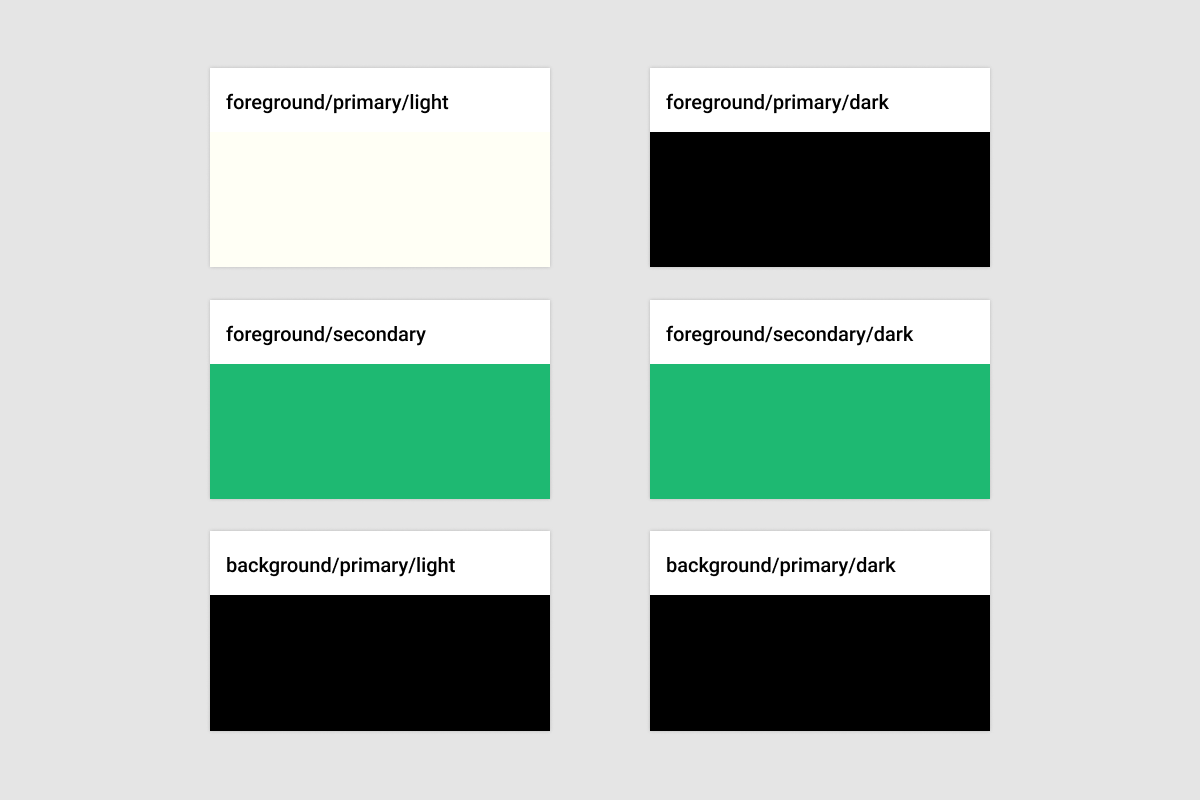
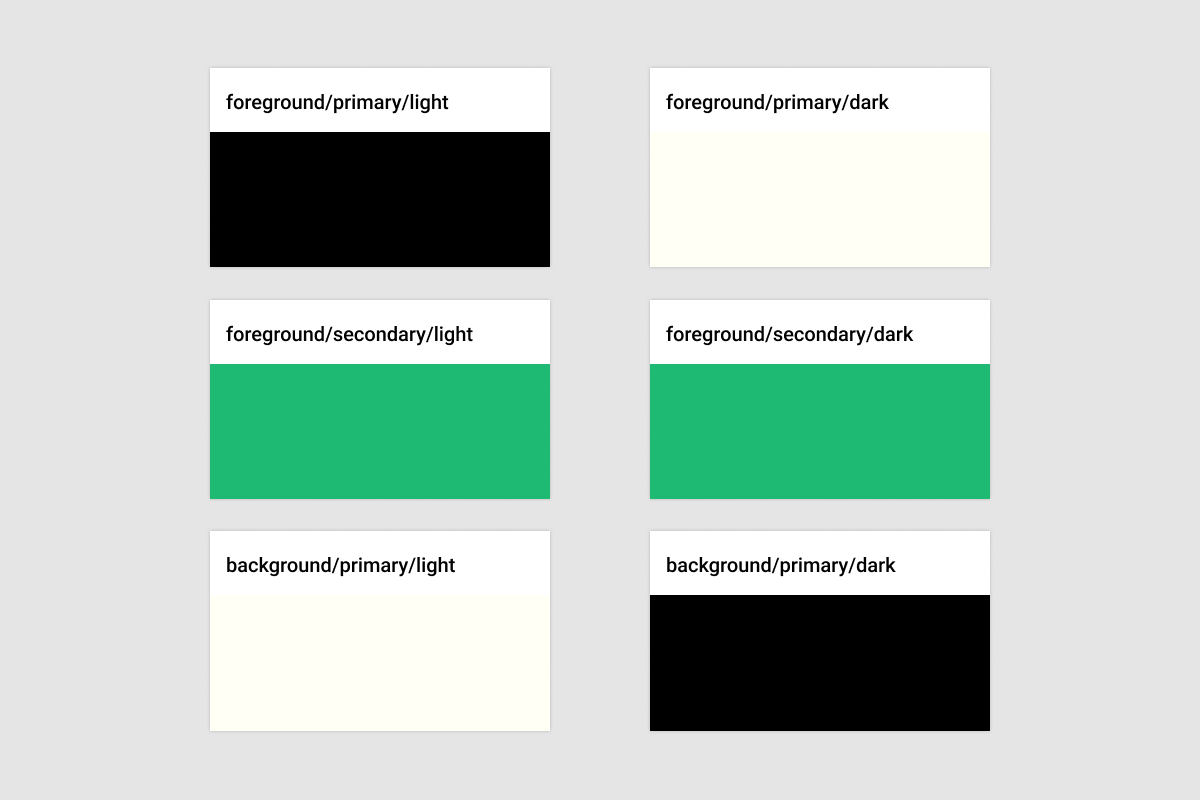
Update Blog “how-to-get-started-with-semantic-naming-of-colors”

diff --git a/content/blog/how-to-get-started-with-semantic-naming-of-colors.md b/content/blog/how-to-get-started-with-semantic-naming-of-colors.md
@@ -4,20 +4,20 @@ date: 2022-01-14T10:20:08.185Z
 title: How to get started with semantic naming of colors
 description: Design system
 ---
-In this blog post I'll describe how to get started with semantic naming of colors and why it's a pretty sweet thing.
-
-I'll show you how you can work with colors a little bit smarter so both you and your developers save time.
+In this blog post I'll describe how to get started with semantic naming of colors and the benefits of working with it.
 
 ![](https://www.jakobmagnusson.se/assets/semantic-1.png)
 
-Here's my example design I'll use, as you can see its just a background with text and underline for now.
+Here's my example design, as you can see its just a background with text and underline for now.
 
 ![](https://www.jakobmagnusson.se/assets/semantic-2.png)
 
-Text color is the first color in the foreground, so we name it "foreground/primary". Underline color is the second color in the foreground so we name it "foreground/secondary. And then we have a background color that we call "background/primary".
+Text color is the first color in the foreground, so we name it "foreground/primary". Underline color is the second color in the foreground so we name it "foreground/secondary. And then we have a background color that we name "background/primary".
 
 ![](https://www.jakobmagnusson.se/assets/semantic-3.png)
 
 Here we have our color scheme in Figma, they are also added as color styles. Let's add a dark color scheme while are at it.
 
 ![](https://www.jakobmagnusson.se/assets/semantic-4.png)
+
+It's pretty simple to add a dark color scheme. Just add "/dark" and "/light" for your color schemes. Its so simple
